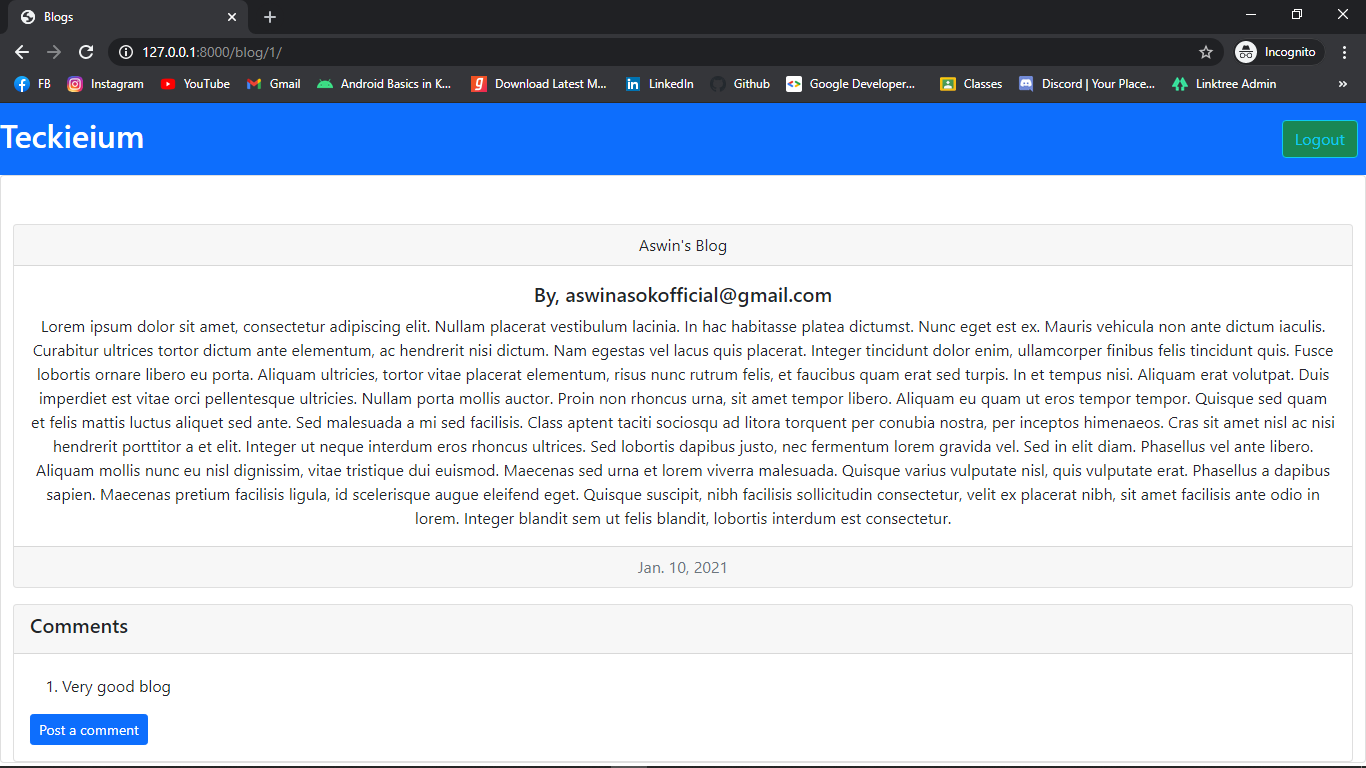
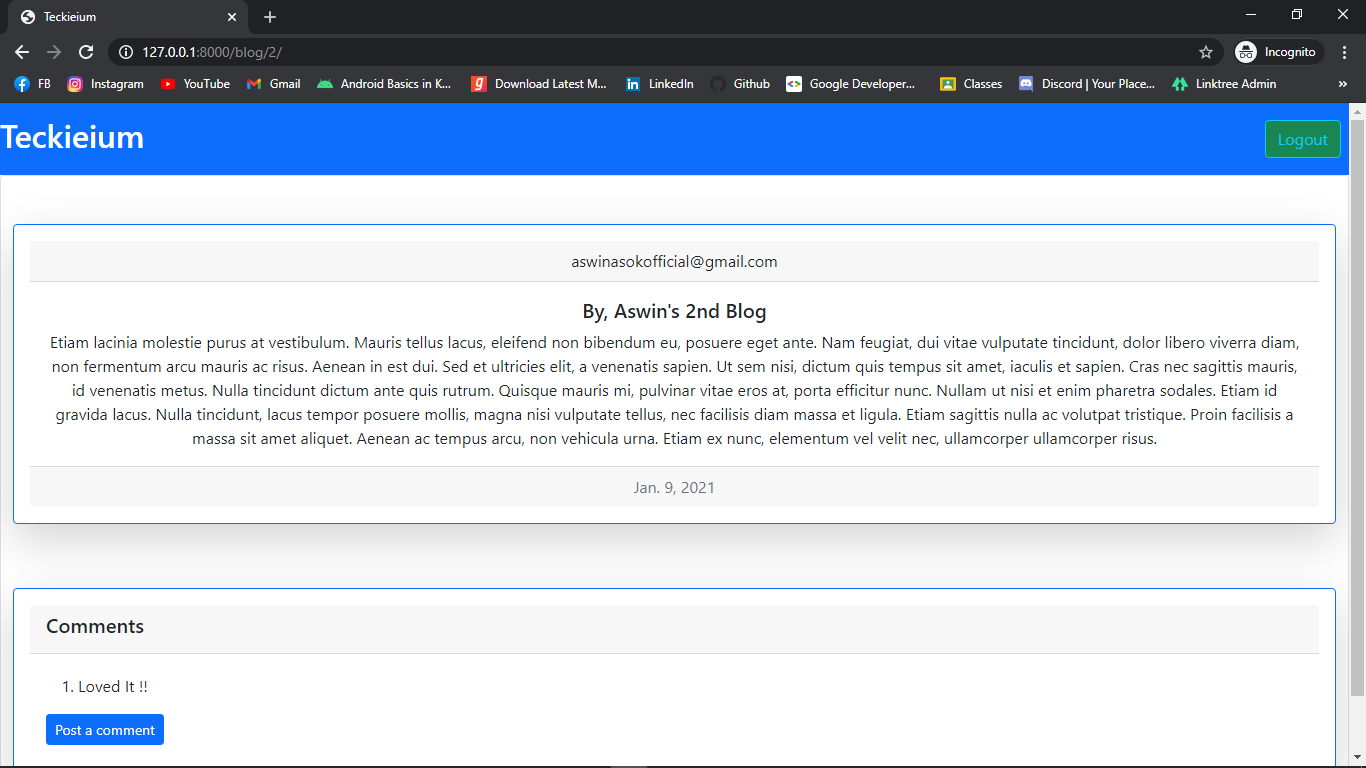
Images Updated with new design changes

diff --git a/Templates/base.html b/Templates/base.html
@@ -3,7 +3,7 @@
   <head>
     <meta charset="UTF-8" />
     <meta name="viewport" content="width=device-width, initial-scale=1.0" />
-    <title>Blogs</title>
+    <title>Teckieium</title>
     <link
       href="https://cdn.jsdelivr.net/npm/bootstrap@5.0.0-beta1/dist/css/bootstrap.min.css"
       rel="stylesheet"
